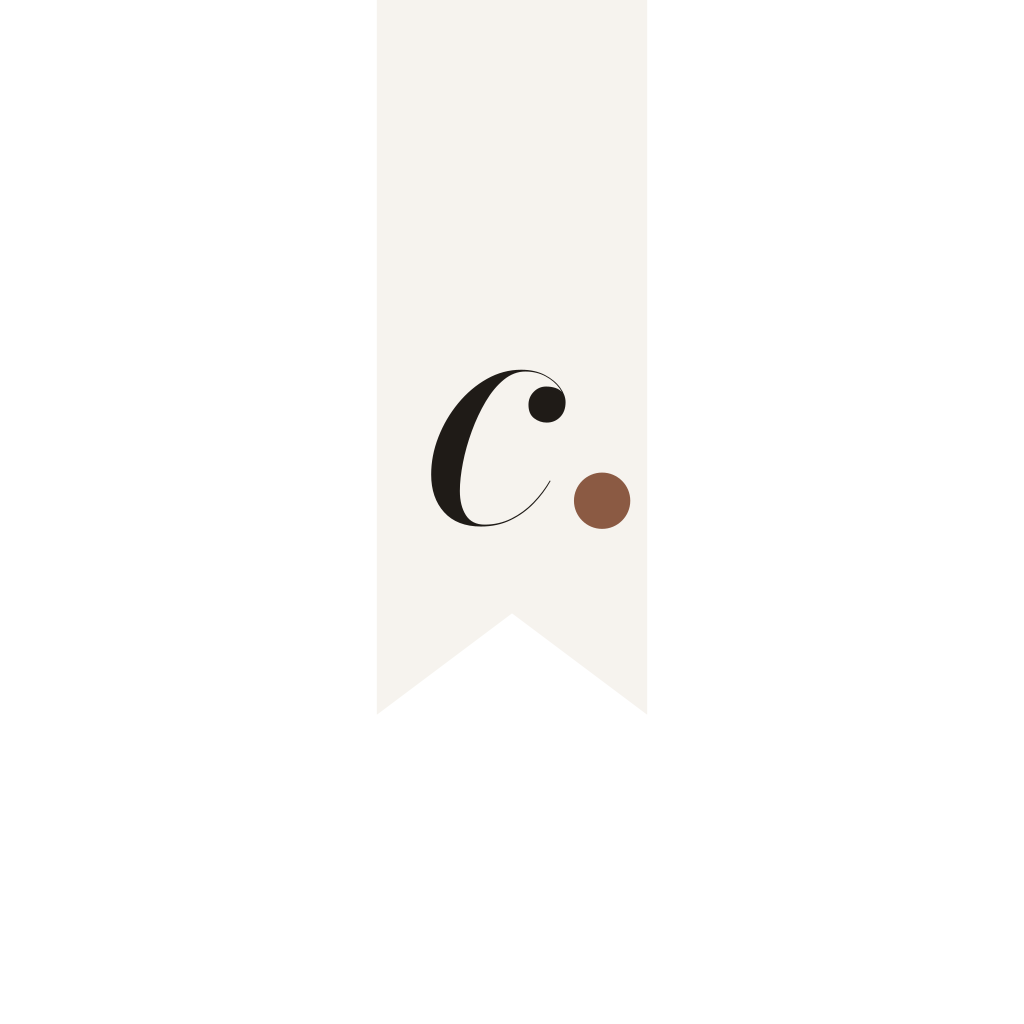
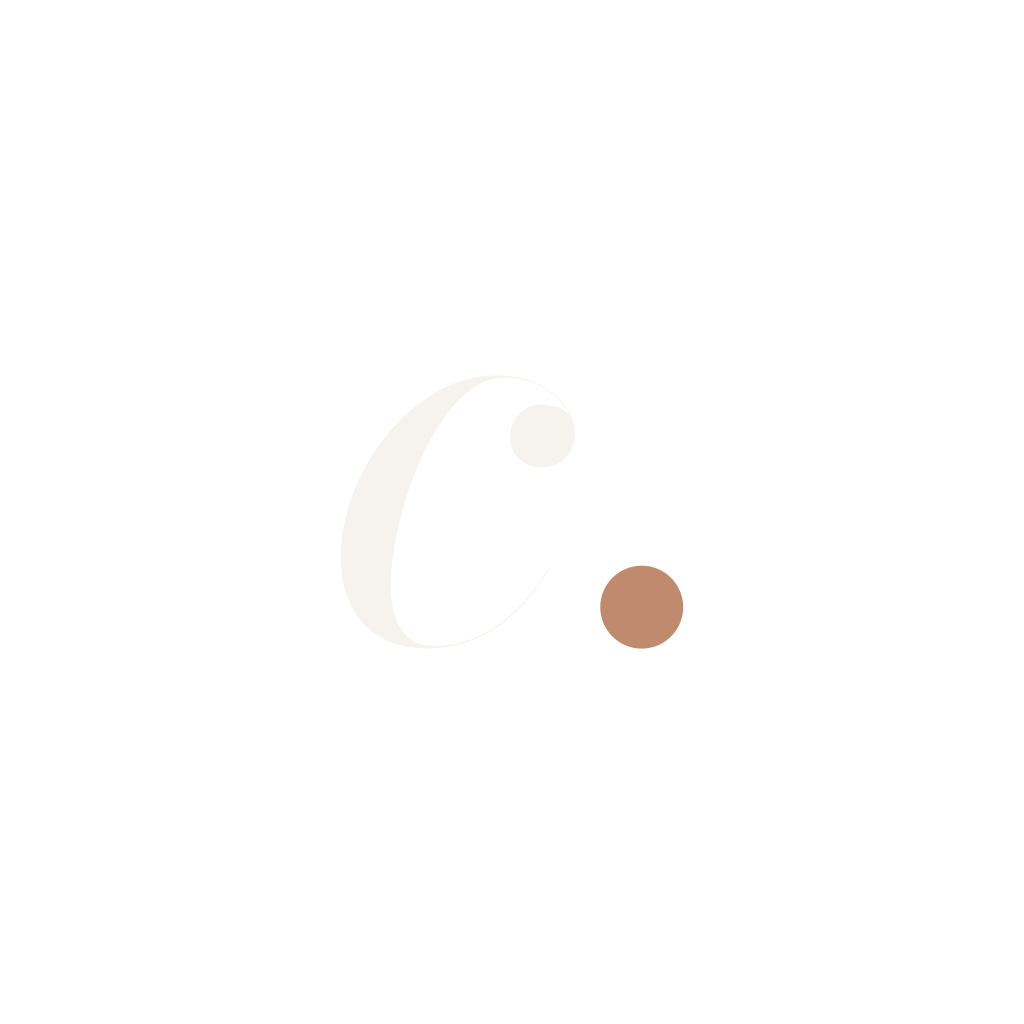
Fix the app never actually reaching the real API, and a web-crashing import
EXPO_PUBLIC_API_URL was never set anywhere, so every build (web and native
alike) fell back to resolveBaseUrl()'s guesses -- a hardcoded :8787 on web
(the real API is behind nginx at /cortex-api, proxying to 8788; 8787 turned
out to belong to an unrelated project on the same box and isn't even
reachable externally) and literally "localhost" on native, which on a
device means the device itself. This is what live verification this
session kept reading as flaky/slow requests -- the requests were actually
going nowhere, and what looked like successful checks were mostly manual
fetches to the correct URL made directly, not the app's own code path. On
a real phone it surfaced as a hard crash: Android blocks cleartext
localhost traffic outright. Added mobile/.env pointing
EXPO_PUBLIC_API_URL at the real origin.

Also: importing expo-media-library at all (not just calling it) crashes
the web bundle, since its class-based API extends a native module that
doesn't exist there -- confirmed by a blank white screen on the last web
deploy. Moved the import behind a Platform.OS-gated require
(src/native/mediaLibrary.ts) so web's bundle never evaluates it; Metro
dead-code-eliminates the branch entirely for that build.

Icon assets swapped for the new "c." mark.

Changed region(s): [[0.5625, 0.4375, 0.6875, 0.6562], [0.4062, 0.3438, 0.5625, 0.5312]]

diff --git a/mobile/src/hooks/useRecentScreenshots.ts b/mobile/src/hooks/useRecentScreenshots.ts
@@ -1,6 +1,5 @@
 import { useEffect, useState } from 'react';
-import { Platform } from 'react-native';
-import { Album, AssetField, Query, getPermissionsAsync, requestPermissionsAsync } from 'expo-media-library';
+import MediaLibrary from '../native/mediaLibrary';
 
 export interface RecentScreenshot {
   id: string;
@@ -21,26 +20,27 @@ export function useRecentScreenshots(limit = 12) {
   const [screenshots, setScreenshots] = useState<RecentScreenshot[]>([]);
 
   useEffect(() => {
-    if (Platform.OS === 'web') return;
+    if (!MediaLibrary) return;
+    const lib = MediaLibrary;
     let cancelled = false;
 
     (async () => {
-      let perm = await getPermissionsAsync();
+      let perm = await lib.getPermissionsAsync();
       if (!perm.granted && perm.canAskAgain) {
-        perm = await requestPermissionsAsync();
+        perm = await lib.requestPermissionsAsync();
       }
       if (!perm.granted || cancelled) return;
 
-      let album: Album | null = null;
+      let album: InstanceType<typeof lib.Album> | null = null;
       for (const title of ALBUM_TITLES) {
-        album = await Album.get(title).catch(() => null);
+        album = await lib.Album.get(title).catch(() => null);
         if (album) break;
       }
       if (!album || cancelled) return;
 
-      const assets = await new Query()
+      const assets = await new lib.Query()
         .album(album)
-        .orderBy({ key: AssetField.CREATION_TIME, ascending: false })
+        .orderBy({ key: lib.AssetField.CREATION_TIME, ascending: false })
         .limit(limit)
         .exe()
         .catch(() => []);

diff --git a/mobile/src/screens/SaveSheetScreen.tsx b/mobile/src/screens/SaveSheetScreen.tsx
@@ -13,7 +13,7 @@ import {
 } from 'react-native';
 import * as ImagePicker from 'expo-image-picker';
 import { File } from 'expo-file-system';
-import { Asset } from 'expo-media-library';
+import MediaLibrary from '../native/mediaLibrary';
 import { useNavigation, useRoute, RouteProp } from '@react-navigation/native';
 import type { NativeStackNavigationProp } from '@react-navigation/native-stack';
 
@@ -156,10 +156,10 @@ export default function SaveSheetScreen() {
   };
 
   const deleteOriginalScreenshot = async () => {
-    if (!pickedScreenshotId) return;
+    if (!pickedScreenshotId || !MediaLibrary) return;
     setDeleteOriginalState('deleting');
     try {
-      await new Asset(pickedScreenshotId).delete();
+      await new MediaLibrary.Asset(pickedScreenshotId).delete();
       setDeleteOriginalState('done');
     } catch (err) {
       setDeleteOriginalState('error');

diff --git a/mobile/src/native/mediaLibrary.ts b/mobile/src/native/mediaLibrary.ts
@@ -1,0 +1,12 @@
+import { Platform } from 'react-native';
+
+// expo-media-library's class-based API (Album/Asset/Query) extends a native
+// module class directly, so merely *importing* the package -- without
+// calling anything -- throws on web (no native module behind it there) and
+// takes the whole bundle down with it. Every file that needs this library
+// should import the default export from here instead of 'expo-media-library'
+// directly, so the require only ever runs on native.
+const MediaLibrary: typeof import('expo-media-library') | null =
+  Platform.OS === 'web' ? null : require('expo-media-library');
+
+export default MediaLibrary;
